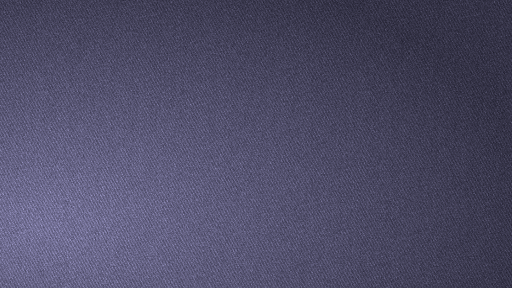
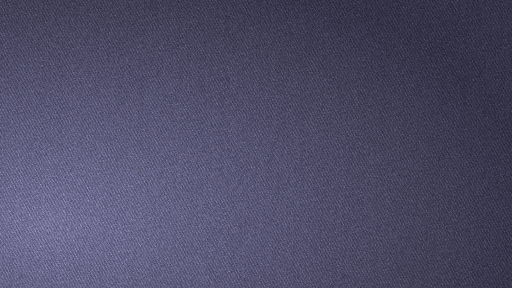
References: preserve opaque background multiply in noise exports

diff --git a/tst/noise_reference.py b/tst/noise_reference.py
@@ -16,6 +16,58 @@ def properties(node):
     return node.attrib | {k.strip(): v.strip() for part in node.get('style', '').split(';') if ':' in part for k, v in [part.split(':', 1)]}
 
 
+def background_blend(data):
+    """Replace a single background multiply with CSS for reviewed opaque backdrops.
+
+    With an opaque backdrop, multiplying SourceGraphic by BackgroundImage and
+    then applying opacity gives the same composite as CSS multiply. CANON cases
+    must establish that opacity independently; reject other filter operations,
+    restricted regions and ancestors that would change the CSS backdrop.
+    """
+    root = ET.fromstring(data)
+    if any(n.tag == NS + 'style' for n in root.iter()):
+        raise ValueError('background blend normalization does not resolve stylesheets')
+    parents = {c: n for n in root.iter() for c in n}
+    filters = {}
+    for f in root.iter(NS + 'filter'):
+        if not any(n.get(k) in ['BackgroundImage', 'BackgroundAlpha'] for n in f.iter() for k in ['in', 'in2']):
+            continue
+        if (len(f) != 1 or f[0].tag != NS + 'feBlend' or f[0].get('mode') != 'multiply'
+                or f[0].get('in', 'SourceGraphic') != 'SourceGraphic' or f[0].get('in2') != 'BackgroundImage'
+                or properties(f).get('color-interpolation-filters') != 'sRGB'
+                or any(k in n.attrib for n in [f, f[0]] for k in ['x', 'y', 'width', 'height', 'href', '{http://www.w3.org/1999/xlink}href'])):
+            raise ValueError('background blend normalization requires an unrestricted sRGB source multiply')
+        filters[f.get('id')] = f
+    found = set()
+    for n in root.iter():
+        p = properties(n)
+        match = re.fullmatch(r'url\(#([^)]*)\)', p.get('filter', ''))
+        if not match or match[1] not in filters:
+            continue
+        if n is root or p.get('mix-blend-mode', 'normal') != 'normal':
+            raise ValueError('background blend target already blends or is the root')
+        parent, scope = parents.get(n), None
+        while parent is not None:
+            p = properties(parent)
+            if any(p.get(k, default) != default for k, default in
+                   [('opacity', '1'), ('filter', 'none'), ('mask', 'none'), ('mix-blend-mode', 'normal'), ('isolation', 'auto')]):
+                raise ValueError('background blend requires non-isolating ancestors')
+            if p.get('enable-background', 'accumulate') != 'accumulate':
+                if parent is not root or p['enable-background'] != 'new':
+                    raise ValueError('background blend requires an unrestricted root background')
+                scope = parent
+            parent = parents.get(parent)
+        if scope is not root:
+            raise ValueError('background blend has no root background')
+        n.set('style', n.get('style', '') + ';filter:none;mix-blend-mode:multiply')
+        found.add(match[1])
+    if not found or found != filters.keys():
+        raise ValueError('background blend did not resolve every changed filter')
+    for f in filters.values():
+        parents[f].remove(f)
+    return ET.tostring(root)
+
+
 def source(data):
     root = ET.fromstring(data)
     for n in root.iter(NS + 'style'):
@@ -79,4 +131,3 @@ def source(data):
     if not found:
         raise ValueError('no rendered filter target')
     return ET.tostring(root)
-

diff --git a/tst/canon.py b/tst/canon.py
@@ -16,7 +16,7 @@ import svg11_reference
 import noise_reference
 
 LABELS = ["1x", "2x"]
-RENDERERS = ["inkscape", "inkscape_legacy", "inkscape_softlight", "batik", "resvg", "firefox", "firefox_svg11", "chromium_noise", "ours"]
+RENDERERS = ["inkscape", "inkscape_legacy", "inkscape_softlight", "batik", "resvg", "firefox", "firefox_svg11", "chromium_noise", "chromium_noise_blend", "ours"]
 ROOT = re.compile(rb"<(?:[\w.-]+:)?svg\b[^>]*>", re.S)
 UNITS = {b"": 1.0, b"px": 1.0, b"pt": 4 / 3, b"pc": 16.0, b"mm": 96 / 25.4, b"cm": 96 / 2.54, b"in": 96.0, b"em": 16.0, b"ex": 8.0, b"q": 96 / 101.6}
 
@@ -340,7 +340,7 @@ def firefox_svg11(program, shrinker, jobs, side):
         return firefox(program, shrinker, copies, side)
 
 
-def chromium_noise(program, shrinker, jobs, side):
+def chromium_noise(program, shrinker, jobs, side, background_blend=False):
     import reference
     with tempfile.TemporaryDirectory() as work:
         page = os.path.join(work, "harness.html")
@@ -380,7 +380,10 @@ def chromium_noise(program, shrinker, jobs, side):
 
             for svg, png, width, height, scale in jobs:
                 with open(svg, "rb") as handle:
-                    data = noise_reference.source(handle.read())
+                    data = handle.read()
+                if background_blend:
+                    data = noise_reference.background_blend(data)
+                data = noise_reference.source(data)
                 with tempfile.NamedTemporaryFile(suffix=".svg", dir=os.path.dirname(svg)) as copy:
                     copy.write(data)
                     copy.flush()
@@ -389,6 +392,10 @@ def chromium_noise(program, shrinker, jobs, side):
         finally:
             browser.close()
     return subprocess.run([program, "--version"], capture_output=True, text=True).stdout.strip()
+
+
+def chromium_noise_blend(program, shrinker, jobs, side):
+    return chromium_noise(program, shrinker, jobs, side, background_blend=True)
 
 
 def main():

diff --git a/README.md b/README.md
@@ -164,6 +164,13 @@ and rejects a browser whose sampling convention has changed. Unsupported
 constructions, including stitched noise and SVG 1.1 background inputs, are
 rejected by `tst/noise_reference.py`.
 
+`chromium_noise_blend` additionally replaces a single sRGB background multiply
+with CSS multiply for the reviewed opaque backdrop in `openclipart/245679`.
+The original SVG stays intact. Constant-noise controls agree byte for byte,
+and rendering the conversion with the native renderer differs by less than
+0.000003 MAE. This avoids both unsupported browser `BackgroundImage` inputs
+and resampling the noisy backdrop through an embedded SVG image.
+
 ## Building
 
 You need clang 21 or GCC 16, Python 3, libpng, wasm2c from
